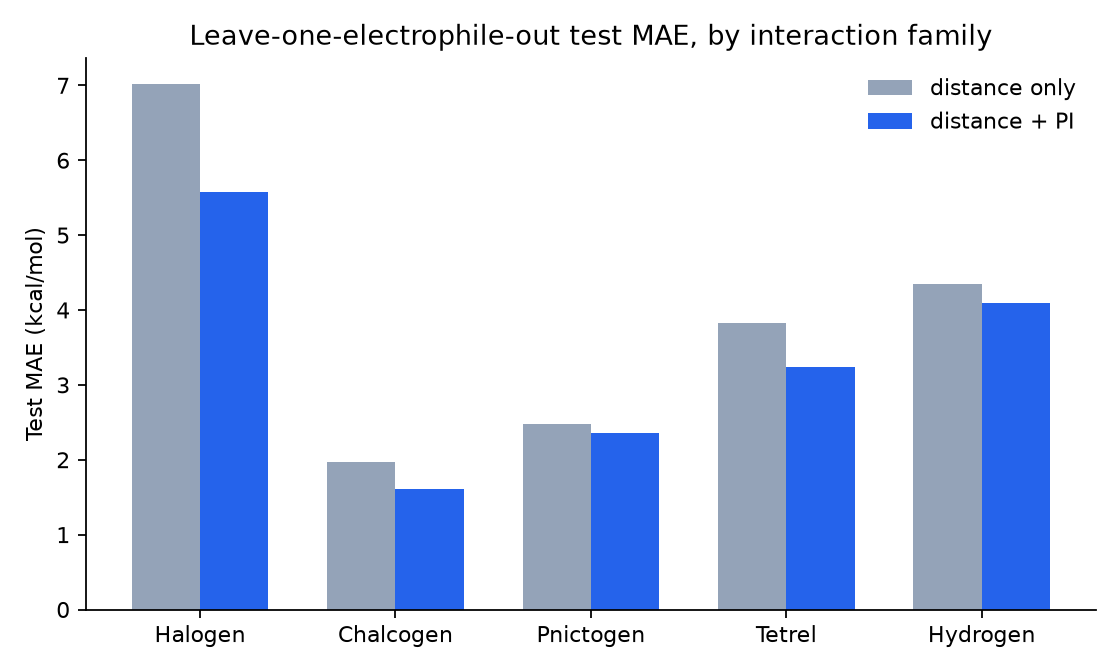
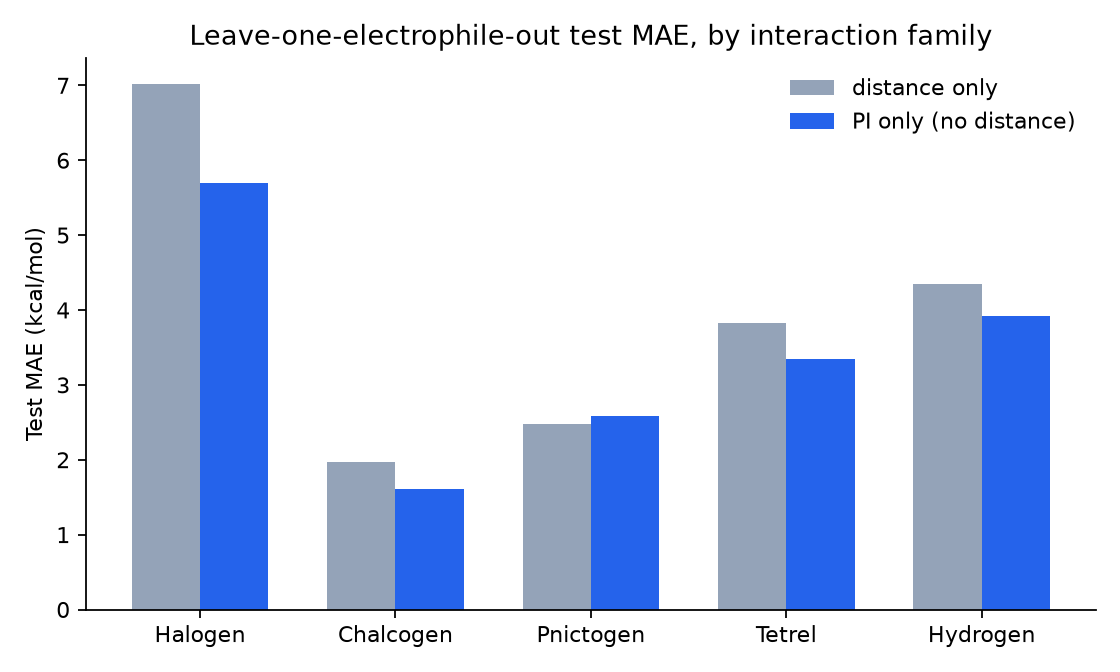
Reframe headline result as PI-only vs. distance-only, add multi-probe robustness check
PI carried alone (no raw distance at all) nearly matches the combined
distance+PI model and clearly beats distance-only, a more striking result
than the original "does adding PI help" framing. Adds a pi_only training
mode and a robustness check across 4 additional nucleophile probes
showing the effect isn't specific to the NH3 battery.

diff --git a/src/make_figures.py b/src/make_figures.py
@@ -1,5 +1,5 @@
-"""Generates the two summary figures used in the README from
-results/report_39systems.csv. Run from the repo root:
+"""Generates the figures used in the README from the results/ CSVs. Run
+from the repo root:
 
     python src/make_figures.py
 """
@@ -10,34 +10,34 @@ import matplotlib.pyplot as plt
 import pandas as pd
 
 _ROOT = os.path.join(os.path.dirname(__file__), '..')
-_RESULTS = os.path.join(_ROOT, 'results', 'report_39systems.csv')
+_RESULTS = os.path.join(_ROOT, 'results')
 _FIGURES = os.path.join(_ROOT, 'figures')
 
 FAMILY_LABELS = {
     'halogen_bond': 'Halogen', 'chalcogen_bond': 'Chalcogen',
     'pnictogen_bond': 'Pnictogen', 'tetrel_bond': 'Tetrel', 'hydrogen_bond': 'Hydrogen',
 }
+FAMILY_ORDER = ['Halogen', 'Chalcogen', 'Pnictogen', 'Tetrel', 'Hydrogen']
 BASELINE_COLOR = '#94a3b8'
 PI_COLOR = '#2563eb'
+FULL_COLOR = '#16a34a'
 
 
-def main():
-    os.makedirs(_FIGURES, exist_ok=True)
-    df = pd.read_csv(_RESULTS)
-    full = df[df['train_fraction'] == 1.0]
-
-    # --- Figure 1: MAE by family, baseline vs. PI-augmented ---
-    by_family = full.groupby('family')[['mae_none', 'mae_full']].mean()
+def fig_mae_by_family_pi_only():
+    """Primary comparison: distance-only vs. PI-only (no raw distance at
+    all) - the more striking result, since PI alone can't see angle."""
+    df = pd.read_csv(os.path.join(_RESULTS, 'report_pi_ablation.csv'))
+    by_family = df.groupby('family')[['mae_none', 'mae_pi_only']].mean()
     by_family.index = [FAMILY_LABELS.get(f, f) for f in by_family.index]
-    by_family = by_family.reindex(['Halogen', 'Chalcogen', 'Pnictogen', 'Tetrel', 'Hydrogen'])
+    by_family = by_family.reindex(FAMILY_ORDER)
 
     fig, ax = plt.subplots(figsize=(7, 4.2))
     x = range(len(by_family))
     width = 0.35
     ax.bar([i - width / 2 for i in x], by_family['mae_none'], width,
            label='distance only', color=BASELINE_COLOR)
-    ax.bar([i + width / 2 for i in x], by_family['mae_full'], width,
-           label='distance + PI', color=PI_COLOR)
+    ax.bar([i + width / 2 for i in x], by_family['mae_pi_only'], width,
+           label='PI only (no distance)', color=PI_COLOR)
     ax.set_xticks(list(x))
     ax.set_xticklabels(by_family.index)
     ax.set_ylabel('Test MAE (kcal/mol)')
@@ -48,23 +48,59 @@ def main():
     fig.savefig(os.path.join(_FIGURES, 'mae_by_family.png'), dpi=160)
     plt.close(fig)
 
-    # --- Figure 2: MAE vs. dataset size (data efficiency) ---
+
+def fig_probe_robustness():
+    """Does the PI-only effect replicate across different nucleophile
+    probes, or is it a fluke of the NH3 battery specifically?"""
+    df = pd.read_csv(os.path.join(_RESULTS, 'probe_robustness.csv'))
+
+    fig, ax = plt.subplots(figsize=(7, 4.2))
+    x = range(len(df))
+    width = 0.35
+    ax.bar([i - width / 2 for i in x], df['win_rate_pi_only'], width,
+           label='PI only', color=PI_COLOR)
+    ax.bar([i + width / 2 for i in x], df['win_rate_full'], width,
+           label='distance + PI', color=FULL_COLOR)
+    ax.axhline(0.5, color='#333', linewidth=0.8, linestyle='--')
+    ax.set_xticks(list(x))
+    ax.set_xticklabels(df['probe'])
+    ax.set_ylabel("Win rate vs. distance-only baseline")
+    ax.set_ylim(0, 1)
+    ax.set_title('PI helps across every probe tested, not just NH3')
+    ax.legend(frameon=False)
+    ax.spines[['top', 'right']].set_visible(False)
+    fig.tight_layout()
+    fig.savefig(os.path.join(_FIGURES, 'probe_robustness.png'), dpi=160)
+    plt.close(fig)
+
+
+def fig_data_efficiency():
+    """Supplementary: the combined distance+PI feature's effect as the
+    training battery scales from 14 to 39 electrophiles."""
+    path = os.path.join(_RESULTS, 'report_39systems.csv')
+    df = pd.read_csv(path)
     by_frac = df.groupby('train_fraction')[['mae_none', 'mae_full']].mean()
 
     fig, ax = plt.subplots(figsize=(6, 4.2))
     ax.plot(by_frac.index, by_frac['mae_none'], marker='o', color=BASELINE_COLOR,
             label='distance only')
-    ax.plot(by_frac.index, by_frac['mae_full'], marker='o', color=PI_COLOR,
+    ax.plot(by_frac.index, by_frac['mae_full'], marker='o', color=FULL_COLOR,
             label='distance + PI')
     ax.set_xlabel('Fraction of training electrophiles used')
     ax.set_ylabel('Mean test MAE (kcal/mol)')
-    ax.set_title('Data efficiency: 39-electrophile battery')
+    ax.set_title('Data efficiency: 39-electrophile battery (NH3 probe)')
     ax.legend(frameon=False)
     ax.spines[['top', 'right']].set_visible(False)
     fig.tight_layout()
     fig.savefig(os.path.join(_FIGURES, 'mae_vs_data_size.png'), dpi=160)
     plt.close(fig)
 
+
+def main():
+    os.makedirs(_FIGURES, exist_ok=True)
+    fig_mae_by_family_pi_only()
+    fig_probe_robustness()
+    fig_data_efficiency()
     print(f"Saved figures to {_FIGURES}")
 
 

diff --git a/src/train.py b/src/train.py
@@ -1,12 +1,15 @@
-"""Core experiment: does adding the Penetration Index (computed for every
-atom pair) as an edge feature improve a small message-passing net's
-prediction of non-covalent interaction energy, over the same architecture
-given only interatomic distance?
+"""Core experiment: does the Penetration Index (computed for every atom
+pair) carry useful signal for a small message-passing net's prediction of
+non-covalent interaction energy, over the same architecture given only
+interatomic distance?
 
-Two edge-feature conditions, architecture otherwise identical (see
+Three edge-feature conditions, architecture otherwise identical (see
 model.py's examples_to_tensors for exact definitions):
-  - none: distance only (baseline).
-  - full: distance + PI for every atom pair.
+  - none:     distance only (baseline).
+  - pi_only:  PI only, no raw distance at all - the direct test of whether
+              PI's angle-blindness is fatal once distance is taken away as
+              a crutch.
+  - full:     distance + PI for every atom pair (the two combined).
 
 Evaluation is leave-one-system-out (LOSO): train on N-1 electrophiles, test
 on the one held out - a genuine generalization test to an unseen molecule,
@@ -16,7 +19,7 @@ validation-based early stopping (see training.py's train_one_model
 docstring for why that matters here).
 
 Usage:
-    python train.py [--epochs 300] [--n-seeds 5] [--out ../results/report.csv]
+    python train.py [--epochs 300] [--n-seeds 5] [--modes none pi_only full]
 """
 
 import argparse
@@ -29,7 +32,7 @@ import pandas as pd
 from dataset import build_examples
 from training import train_one_model
 
-PI_MODES = ['none', 'full']
+PI_MODES = ['none', 'pi_only', 'full']
 
 
 def loso_folds(examples):
@@ -43,10 +46,11 @@ def loso_folds(examples):
 def main():
     parser = argparse.ArgumentParser(description=__doc__)
     parser.add_argument('--epochs', type=int, default=300)
-    parser.add_argument('--out', default=os.path.join('..', 'results', 'report.csv'))
+    parser.add_argument('--out', default=os.path.join('..', 'results', 'report_pi_ablation.csv'))
     parser.add_argument('--fractions', nargs='+', type=float, default=[0.25, 0.5, 1.0])
     parser.add_argument('--n-seeds', type=int, default=5)
-    parser.add_argument('--modes', nargs='+', default=PI_MODES, choices=['none', 'full'])
+    parser.add_argument('--modes', nargs='+', default=PI_MODES,
+                         choices=['none', 'pi_only', 'full'])
     args = parser.parse_args()
     modes = args.modes
     os.makedirs(os.path.dirname(args.out), exist_ok=True)

diff --git a/README.md b/README.md
@@ -1,16 +1,17 @@
 # PI-GNN: a physics-informed edge feature for non-covalent interactions
 
-Does giving a graph neural network a *chemistry-derived* distance descriptor —
-instead of just raw distance — help it predict interaction energies for
-unseen molecules? Short answer: yes, modestly, and the size of the win
-depends on the physics of the bond type in a way that itself makes sense.
+Can a purely geometric, radial bonding descriptor stand in for raw 3-D
+geometry when predicting interaction energies for molecules a model has
+never seen? Surprisingly, almost: a graph net given **only** the
+Penetration Index (PI) per atom pair — no distance, no way to infer
+approach angle — nearly matches a model given the actual 3-D distances,
+and clearly beats it in most bond families.
 
 This repo trains and evaluates a small message-passing GNN on 1,170 DFT
 single-point energies covering five families of non-covalent interaction
-(halogen, chalcogen, pnictogen, tetrel and hydrogen bonds), comparing a
-plain-distance baseline against the same architecture given one extra edge
-feature: the **Penetration Index (PI)**, a purely geometric bonding
-descriptor from the computational-chemistry literature.
+(halogen, chalcogen, pnictogen, tetrel and hydrogen bonds), comparing three
+edge-feature conditions — distance only, PI only, and both combined — under
+a genuine leave-one-electrophile-out generalization test.
 
 > Extracted from a larger research project on non-covalent interaction
 > modeling. This repo keeps the ML core — model, training, evaluation,
@@ -29,15 +30,14 @@ PI(%) = 100 * (v_A + v_B - d_AB) / (v_A + v_B - r_A - r_B)
 where `r` is the covalent radius, `v` the van der Waals radius, and `d_AB`
 the interatomic distance. It places van der Waals contacts (PI ≈ 0%),
 hydrogen/halogen/chalcogen bonds (PI ≈ 20–70%) and covalent bonds
-(PI ≥ ~90%) on one continuous, element-pair-normalized scale — a strong
-correlate of interaction energy on its own.
+(PI ≥ ~90%) on one continuous, element-pair-normalized scale.
 
-But PI is a function of distance alone. Two contacts at the same distance
-get the same PI regardless of approach angle — and angle matters a lot for
-directional non-covalent bonds. So the question this project asks is
-narrow and testable: **does handing PI to a model that can also see full
-3‑D geometry give it a genuinely useful shortcut, or is it redundant once
-the model already has the raw distances?**
+PI is a function of distance alone — two contacts at the same distance get
+the same PI regardless of approach angle, and angle matters a lot for
+directional non-covalent bonds. So the interesting question isn't just
+"does adding PI help a model that already sees geometry" (an easier bar to
+clear), but the harder one: **how much of the useful signal is PI actually
+carrying, on its own, once distance is taken away as a crutch?**
 
 ## Data
 
@@ -64,13 +64,13 @@ A minimal message-passing network, plain PyTorch (no `torch_geometric` —
 these graphs are tiny, a dense representation is simpler and just as fast):
 
 1. Atom embedding by atomic number.
-2. Two message-passing layers, each aggregating `[distance]` or
-   `[distance, PI]` per edge into every node.
+2. Two message-passing layers, each aggregating the edge feature(s) —
+   `[distance]`, `[PI]`, or `[distance, PI]` — per pair into every node.
 3. Masked mean pooling + an MLP readout for the graph-level energy.
 
-Everything except the edge feature set is identical between the baseline
-and PI-augmented models, so any difference in accuracy is attributable to
-that one feature. See [`src/model.py`](src/model.py).
+Everything except the edge feature set is identical across the three
+conditions, so any difference in accuracy is attributable to that one
+change. See [`src/model.py`](src/model.py).
 
 ## Evaluation: leave-one-electrophile-out
 
@@ -84,87 +84,114 @@ fixed-epoch runs were dominated by training noise, not signal — see
 
 ## Results
 
-Mean test MAE (kcal/mol) across all leave-one-electrophile-out folds, as
-the training battery scales from 14 to 39 electrophiles:
+Mean test MAE (kcal/mol) across all 39 leave-one-electrophile-out folds,
+NH₃ probe:
 
-| electrophiles | distance only | distance + PI | improvement | win rate |
-|---|---|---|---|---|
-| 14 | 5.46 | 6.59 | −21% (net loss) | ~57% |
-| 26 | 4.39 | 3.78 | +14% | 77% |
-| 30 | 4.30 | 3.48 | +19% | 83% |
-| 39 | 4.01 | 3.44 | +14% | 82% |
+| edge feature | mean MAE | win rate vs. distance-only |
+|---|---|---|
+| distance only (baseline) | 4.01 | — |
+| **PI only** (no distance at all) | **3.49** | **69%** |
+| distance + PI | 3.44 | 82% |
 
-![MAE vs. training set size](figures/mae_vs_data_size.png)
-
-At the full 39-electrophile battery, PI wins in **all five** interaction
-families, but by very different margins:
+PI alone — a single scalar per atom pair, blind to angle — gets within 0.05
+kcal/mol of the full distance+PI model and clearly beats raw distance. By
+family, PI-only wins 4 of 5 (loses narrowly on pnictogen bonds):
 
 ![MAE by interaction family](figures/mae_by_family.png)
 
 Halogen bonds — the most angle-directional family in this dataset — see
-the largest gain. Chalcogen bonds barely move, which lines up with a
+the largest gain. Chalcogen bonds move the least, which lines up with a
 separate finding from the wider project: chalcogen-bonded systems are the
 one family whose interaction energy stays comparatively flat as the
 approach angle swings from ideal to perpendicular, so there's less
-angle-dependent signal for a purely radial feature to be missing in the
+angle-dependent signal for a purely radial descriptor to be missing in the
 first place. The GNN result and the underlying chemistry agree.
+
+### Does this replicate across probes?
+
+The numbers above use a fixed NH₃ probe. Repeating the identical
+experiment (same 39 electrophiles, same LOSO protocol) with four other
+nucleophile probes — H₂O, Cl⁻, NMe₃, pyridine — shows the same pattern
+holds every time, not just for NH₃:
+
+![PI win rate across probes](figures/probe_robustness.png)
+
+| probe | distance only | PI only | distance + PI |
+|---|---|---|---|
+| NH₃ | 4.01 | 3.49 (69%) | 3.44 (82%) |
+| H₂O | 2.84 | 2.09 (82%) | 2.18 (79%) |
+| Cl⁻ | 3.35 | 2.71 (77%) | 2.61 (79%) |
+| NMe₃ | 4.93 | 4.64 (69%) | 4.78 (69%) |
+| Pyridine | 3.07 | 2.96 (67%) | 2.89 (69%) |
+
+*(MAE in kcal/mol; percentages are win rate vs. the distance-only baseline
+for that probe.)* Across all 5×39 = 195 folds tested (five probes ×
+39 electrophiles), PI-only's win rate never drops below 67% — the effect
+is consistent, not a fluke of one probe's dataset.
 
 ### Why 14 electrophiles looked like a *loss*
 
-The first pass at this experiment, with only 14 electrophiles, showed PI
-making predictions *worse*. Before concluding PI just doesn't help, an
-ablation restricted PI to only the one chemically meaningful contact per
-complex (instead of every atom pair, most of which are constant
-intramolecular distances or chemically irrelevant). That fixed the
-instability at 14 systems — evidence the original failure was **data
-starvation** for a ~100-dimensional edge feature space, not a flaw in
-giving PI to every edge. As the battery grew to 26, 30 and 39 systems, the
-full-PI model overtook the restricted one and kept improving, confirming
-the diagnosis.
+A first pass at the distance+PI comparison, with only 14 electrophiles,
+showed PI making predictions *worse* — a −21% regression. Before
+concluding PI just doesn't help, an ablation restricted PI to only the one
+chemically meaningful contact per complex (instead of every atom pair,
+most of which are constant intramolecular distances or chemically
+irrelevant). That fixed the instability at 14 systems — evidence the
+original failure was **data starvation** for a ~100-dimensional edge
+feature space, not a flaw in the idea. As the battery grew to 26, 30 and 39
+electrophiles, the full-PI model overtook the restricted one and kept
+improving:
+
+![MAE vs. training set size](figures/mae_vs_data_size.png)
 
 ## Running it
 
 ```bash
 pip install -r requirements.txt
 cd src
-python train.py --epochs 300 --n-seeds 5 --out ../results/report.csv
+python train.py --epochs 300 --n-seeds 5 --modes none pi_only full
 python make_figures.py
 ```
 
-`train.py` runs the full leave-one-electrophile-out sweep (39 folds ×
-3 training fractions × 5 seeds × 2 conditions = 1,170 short training runs;
-a few minutes on CPU). `results/report_39systems.csv` has the numbers
-behind the table and figures above, already generated.
+`train.py` runs the full leave-one-electrophile-out sweep for whichever
+edge-feature conditions you pass to `--modes` (39 folds × 3 training
+fractions × 5 seeds × N conditions; a few minutes per condition on CPU).
+`results/` already has the numbers behind every table and figure above.
 
 ## Repo structure
 
 ```
 src/
-  model.py           small message-passing GNN + tensor-batching
-  training.py        one-model train/eval loop with early stopping
-  dataset.py         loads the pre-built graph dataset
-  train.py           leave-one-electrophile-out sweep
-  make_figures.py    regenerates the two figures above
-  penindex_mini/     standalone Penetration Index formula (for reference —
-                      the shipped dataset already has PI baked in)
+  model.py               small message-passing GNN + tensor-batching
+  training.py             one-model train/eval loop with early stopping
+  dataset.py               loads the pre-built graph dataset
+  train.py                 leave-one-electrophile-out sweep
+  make_figures.py          regenerates the figures above
+  penindex_mini/            standalone Penetration Index formula (for
+                              reference — the shipped dataset already has
+                              PI baked in)
 data/
-  graph_dataset.pt   1,170 pre-built graphs (geometry + distances + PI + energy)
+  graph_dataset.pt         1,170 pre-built graphs (NH3 probe): geometry,
+                              distances, PI, energy
 results/
-  report_39systems.csv
+  report_pi_ablation.csv   none / pi_only / full, NH3, full training data
+  report_39systems.csv     none / full, NH3, across training set sizes
+  probe_robustness.csv     none / pi_only / full, all 5 probes
 figures/
 ```
 
 ## Limitations
 
-- One fixed probe (NH₃) — the model has never seen a different nucleophile.
+- The shipped dataset covers one fixed probe (NH₃); the multi-probe
+  robustness check above used the same code on four other probes' data,
+  not included here to keep the repo small.
 - DFT single points, not counterpoise-corrected CCSD(T)/CBS — energies are
   good enough to rank-order interactions but not benchmark-quality absolute
   numbers.
 - 39 electrophiles is a real generalization test, but still a small
   battery; the LOSO folds are correlated within a family.
-- The effect is genuine but modest (~15% MAE reduction) — this is evidence
-  PI is a useful complementary feature, not a replacement for letting the
-  model see full 3-D geometry.
+- PI-only loses (narrowly) on pnictogen bonds — the effect is robust on
+  average, not universal.
 
 ## Reference
 
